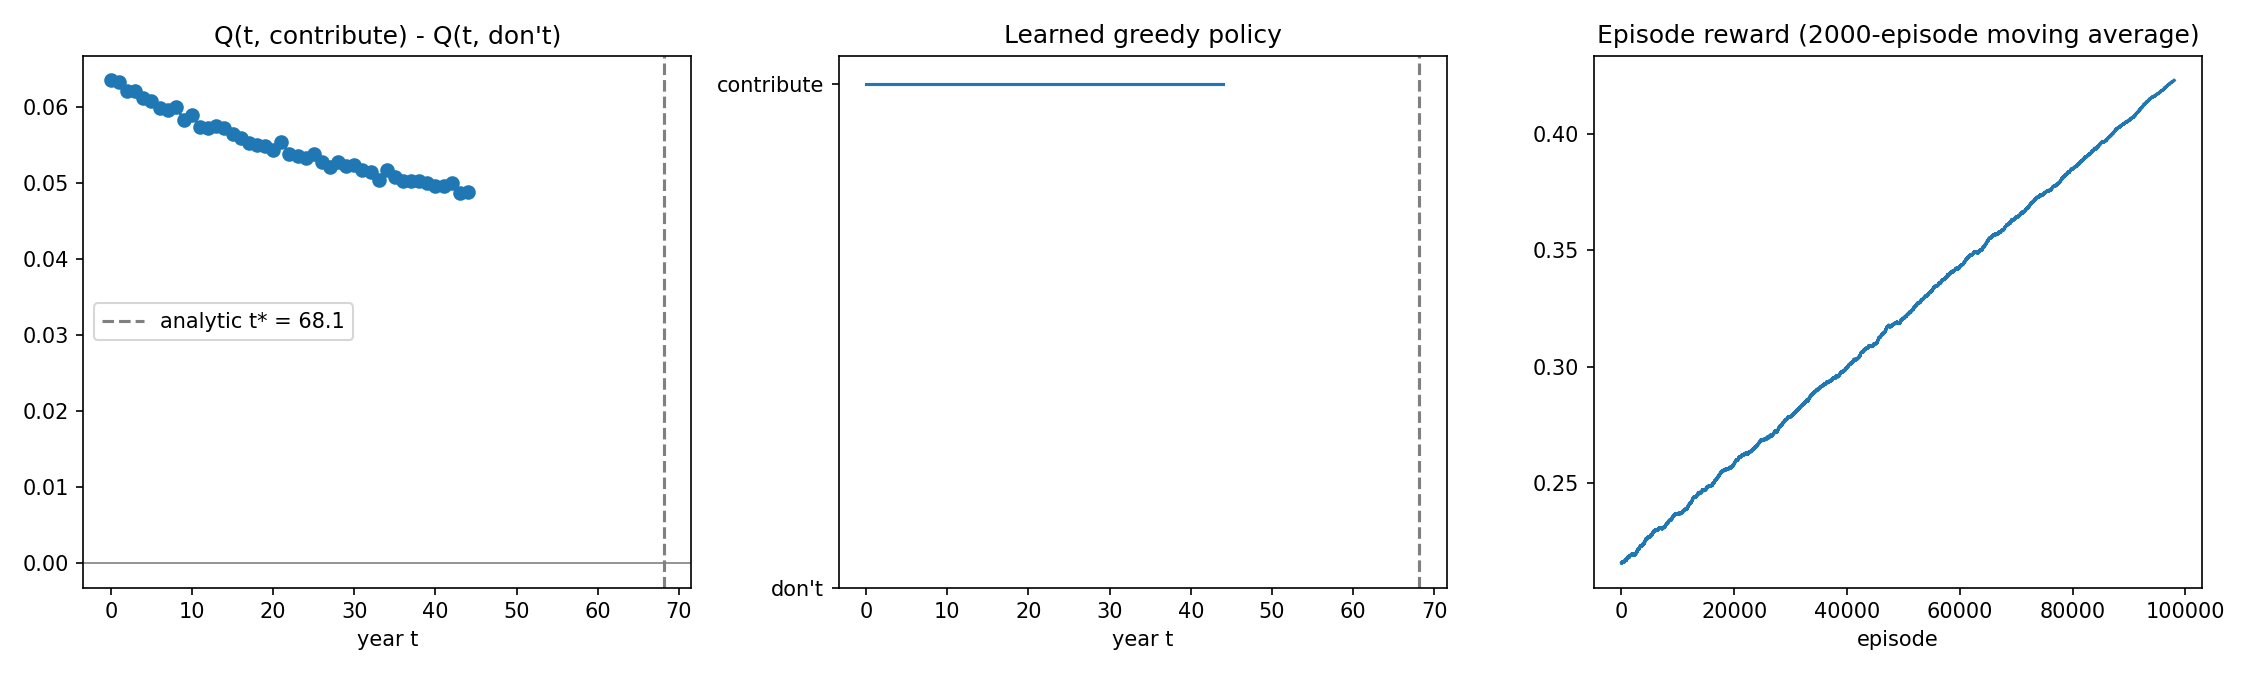
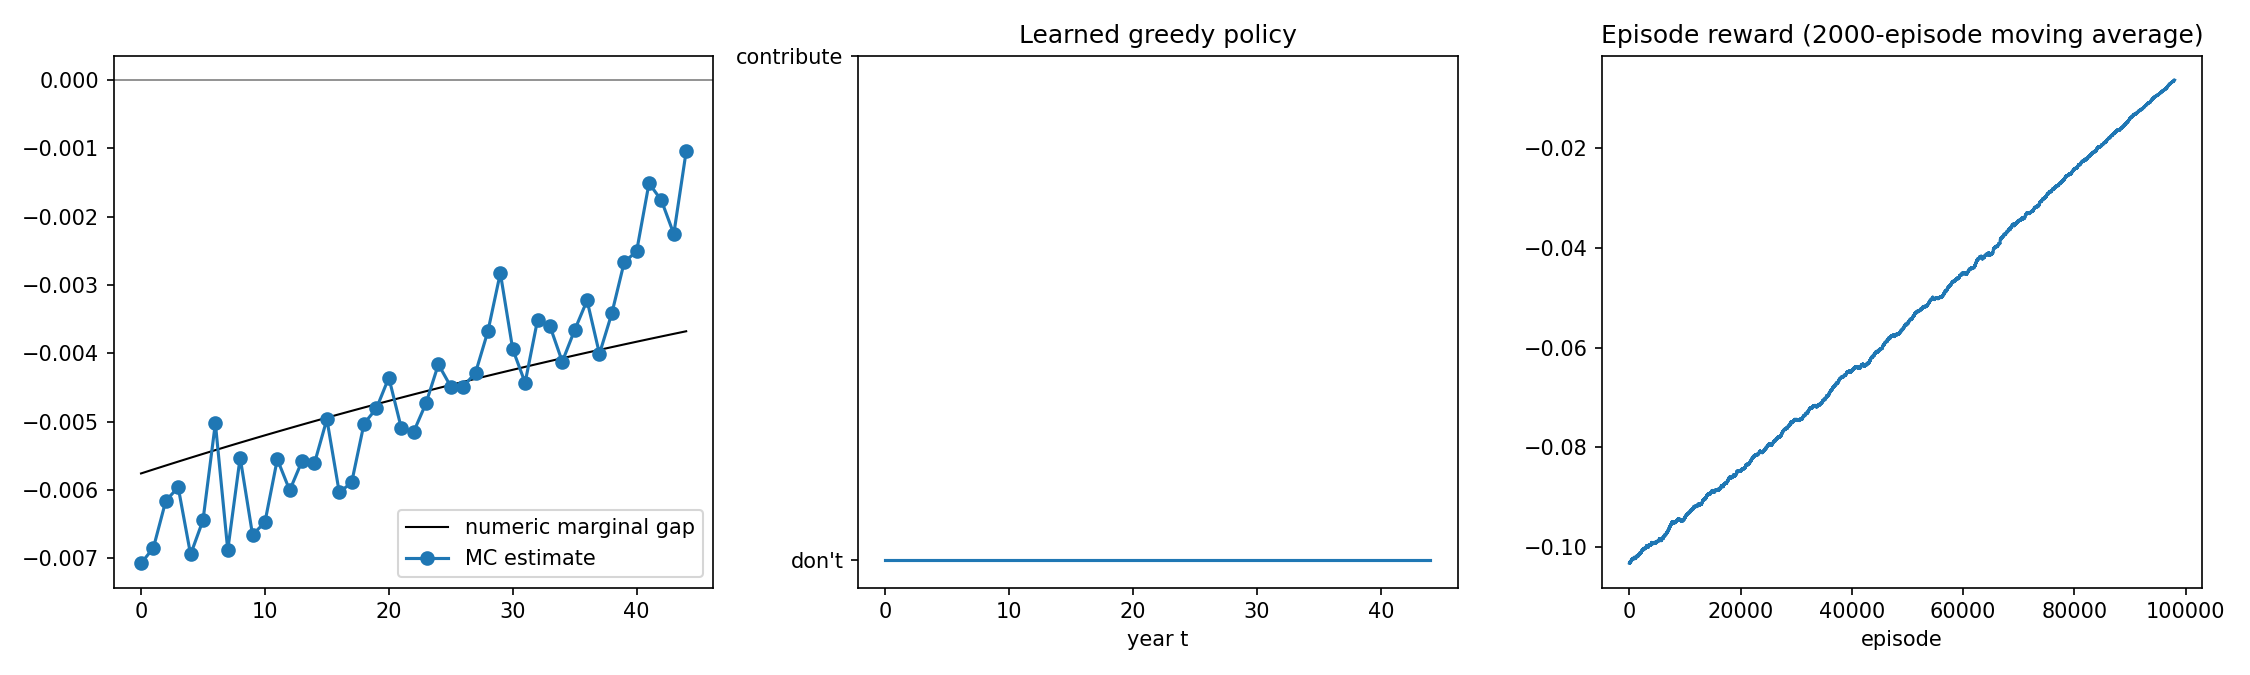
Implement the following:
* weight decay instead of average sample
* salary contribution rate
* generic environment test case numerically solved instead of analytically => as baseline to check Q value
* three test employer importance, balance and employee importance

diff --git a/toyEnv/basic.py b/toyEnv/basic.py
@@ -3,79 +3,97 @@ import os
 import numpy as np
 
 
-"""Tabular Monte Carlo control on the most basic pension contribution toy.
- 
-No neural networks, no Stable Baselines, no Gymnasium. One Q-table, one loop.
- 
-Environment (stripped to the bone)
-----------------------------------
-- T = 20 annual steps, binary action: contribute c_max (a=1) or nothing (a=0).
-- Vintage-exact aggregate recursions under a frozen WAP-style guarantee g:
-      R <- (R + c) * (1 + X_t)     credited reserve leg, X_t lognormal
-      L <- (L + c) * (1 + g)       liability leg at the guarantee rate
-- Reward: zero until the end, then the joint value
-      J = max(R, L) - kappa * [ (1 + tau) * C + max(L - R, 0) ]
- 
+"""Tabular Monte Carlo control on a deterministic pension contribution toy.
+
+No neural networks, no libraries beyond numpy. One Q-table, one loop.
+
+Environment
+-----------
+- T = 45 annual steps, binary action: contribute this year's premium or not.
+- Premium is salary-linked: c_t = C_RATE * S_t, with S_t = S0 * (1+W)^t.
+- Deterministic aggregate recursions (vintage-exact) under a frozen guarantee:
+      R <- (R + c) * exp(MU)       reserve credited at the tariff MU
+      L <- (L + c) * (1 + G)       WAP liability leg at the guarantee rate
+- Rewards are emitted when cash flows occur, already discounted to t=0
+  at rate DISC (one numeraire, owned by the environment):
+      per year:  -KAPPA * c_t * exp(-DISC * t)
+      terminal:  (max(R,L) - KAPPA * max(L-R, 0)) * exp(-DISC * T)
+  KAPPA is the employer-cost weight; KAPPA = 1 makes the shortfall a pure
+  transfer that cancels from the joint objective.
+  Current simplification: DISC = MU (timing-neutral economy).
+
 Agent
 -----
-- State: the year t only (policy class = corner policies, which is where the
-  true optimum lives; honest caveat: this state is non-Markov w.r.t. R and L,
-  which is fine here but will NOT be fine once the WAP rate is stochastic).
-- Q-table of shape (T, 2). Every-visit Monte Carlo: each episode's terminal
-  reward is credited to all (t, a) pairs visited (with gamma = 1 and only a
-  terminal reward, the return at every step IS the terminal reward).
-- Epsilon-greedy exploration with linear decay.
- 
-Ground truth
-------------
-Contribute at year t iff exp(mu * (T - t)) > kappa * (1 + tau)
-  => switch date t* = T - ln(kappa * (1 + tau)) / mu   (~12.5 with defaults;
-     the shortfall put nudges the exact switch slightly earlier).
+- State: the year t only. Sufficient here because salary and rates are
+  deterministic functions of time; must grow once anything stochastic
+  enters (WAP rate, credited return).
+- On-policy every-visit Monte Carlo control, epsilon-greedy with linear
+  decay, gamma = 1 (financial discounting lives in the reward; gamma < 1
+  would double-discount — do not tune).
+- Update target is the return-from-t (reverse cumsum of rewards), so
+  sunk costs never pollute later decisions' estimates.
+
+Validation
+----------
+No closed forms: the benchmark evaluates the environment directly, so it
+cannot go stale when run_episode changes.
+- sweep_benchmark(): best switch policy by direct evaluation.
+- numeric_gap(): per-year marginal value of contributing.
+Pass criteria: learned policy matches the sweep's switch; MC Q-gaps track
+numeric_gap(); reward trace plateaus at the benchmark value.
+Caveats: single-episode evaluation and per-year decomposition are exact
+only while the environment is deterministic and the reward is linear in
+contributions — both need Monte Carlo averaging at the stochastic rung.
 """
  
 # --------------------------------------------------------------------------- 
 # Parameters
 # ---------------------------------------------------------------------------
 T = 45          # career length in years
-C_MAX = 1.0     # contribution when a = 1
 G = 0.0175      # frozen WAP guarantee rate
 MU = 0.03       # tarrif on mathematical reserve 
-KAPPA = 0.5    # employer-cost weight (> 1, else the shortfall cancels) sensitivy 
-SCALE = C_MAX * T * np.exp(MU * T)   # keeps rewards O(1)
- 
-N_EPISODES = 100_000
+KAPPA = 2    # employer-cost weight (> 1, else the shortfall cancels) sensitivy 
+S0 = 1.0        #starting salary
+W = 0.02        # deterministic salary growth 
+C_RATE = 0.05   # contribution as a fraction of the salary 
+SCALE = C_RATE * S0 * T * np.exp(MU * T) # keeps rewards O(1)
+DISC= MU
+
+ALPHA= 0.02 #WEIGHT DECAY
+
 
  
  # ---------------------------------------------------------------------------
 # Environment: one function that plays a full episode given an action rule
 # ---------------------------------------------------------------------------
  
-def run_episode(choose_action, rng):
+def run_episode(choose_action):
     """Play one career. choose_action(t) -> 0 or 1. Returns (actions, reward)."""
-    R = L = C = 0.0
+    R = L = 0.0
     actions = np.empty(T, dtype=np.int64)
+    S = S0
+    rewards = np.zeros(T) 
     for t in range(T):
         a = choose_action(t)
         actions[t] = a
-        c = C_MAX * a
-        x = np.exp(MU)
-        R = (R + c) * x
+        c = C_RATE * S *  a
+        rewards[t] = -KAPPA * c * np.exp(-DISC * t) / SCALE
+        R = (R + c) * np.exp(MU)
         L = (L + c) * (1.0 + G)
-        C += c
+        S *= (1.0+ W)
     payout = max(R, L)
     shortfall = max(L - R, 0.0)
-    reward = (payout - KAPPA * (C + shortfall)) / SCALE
-    return actions, reward
+    rewards[-1] += (payout - KAPPA * shortfall)*np.exp(-DISC*T) / SCALE
+    return actions, rewards
 
 
 # ---------------------------------------------------------------------------
 # Monte Carlo control
 # ---------------------------------------------------------------------------
  
-def mc_control(n_episodes=N_EPISODES, seed=0, epsStart =1.0, epsEnd =0.01 ):
+def mc_control(n_episodes=100000, seed=0, epsStart =1.0, epsEnd =0.05 ):
     rng = np.random.default_rng(seed)
     Q = np.zeros((T, 2))            # value estimates
-    visits = np.zeros((T, 2))       # visit counts for running averages
     reward_trace = np.empty(n_episodes)
  
     for ep in range(n_episodes):
@@ -86,53 +104,78 @@ def mc_control(n_episodes=N_EPISODES, seed=0, epsStart =1.0, epsEnd =0.01 ):
                 return int(rng.integers(2))          # explore
             return int(np.argmax(Q[t]))              # exploit
  
-        actions, reward = run_episode(choose_action, rng)
-        reward_trace[ep] = reward
- 
+        actions, rewards = run_episode(choose_action)
+        reward_trace[ep] = rewards.sum()   # G_0, comparable to before
+        returns = np.cumsum(rewards[::-1])[::-1]  # G_t = Σ_{s≥t} r_s  (γ = 1) as already discounted with NPV 
         # Every-visit MC update: the terminal reward is the return at every t.
         for t in range(T):
             a = actions[t]
-            visits[t, a] += 1
-            Q[t, a] += (reward - Q[t, a]) / visits[t, a]   # incremental mean
- 
+            Q[t, a] += ALPHA * (returns[t] - Q[t, a]) #apply weight decay 
+    
     return {
         "Q": Q,
         "policy": np.argmax(Q, axis=1),
         "reward_trace": reward_trace,
     }
-    
 
-def analytic_switch():
-    return T - np.log(KAPPA) / MU
- 
+# ----------------------------------------------------------------------
+# Environment-based benchmark (no learning) 
+# ----------------------------------------------------------------------
 
+def sweep_benchmark(n_grid=T + 1):
+    """Best switch policy by direct evaluation — no learning, no formulas.
+    Automatically stays correct under any change to run_episode."""
+    best = {"switch": 0, "value": -np.inf}
+    for k in range(n_grid):                    # contribute years 0..k-1
+        actions, rewards = run_episode(lambda t: int(t < k))
+        value = rewards.sum()                  # deterministic env: one episode suffices
+        if value > best["value"]:
+            best = {"switch": k, "value": value}
+    return best
+
+
+def numeric_gap():
+    """Marginal value of contributing in each single year, measured directly
+    from the environment. No formulas: stays correct under env changes.
+    (Exact per-year decomposition only while the env is deterministic and
+    the reward linear in contributions — revisit at the stochastic rung.)"""
+    _, r_none = run_episode(lambda t: 0)
+    base = r_none.sum()
+    gaps = np.empty(T)
+    for k in range(T):
+        _, r = run_episode(lambda t, k=k: int(t == k))
+        gaps[k] = r.sum() - base
+    return gaps
 
 # ---------------------------------------------------------------------------
 # Diagnostics
 # ---------------------------------------------------------------------------
  
-def plot_results(result, path="tests/mc_basic2.png"):
+def plot_results(result, path="tests/mc_basic.png"):
     import matplotlib
     matplotlib.use("Agg")
     import matplotlib.pyplot as plt
  
     os.makedirs(os.path.dirname(path), exist_ok=True)
     Q, policy, trace = result["Q"], result["policy"], result["reward_trace"]
-    t_star = analytic_switch()
     ts = np.arange(T)
  
     fig, axes = plt.subplots(1, 3, figsize=(15, 4.5))
- 
-    axes[0].plot(ts, Q[:, 1] - Q[:, 0], marker="o")
+    bench = sweep_benchmark()
+    # switch line only if the best policy is interior
+    if bench is not None and 0 < bench["switch"] < T:
+        for ax in (axes[0], axes[1]):
+            ax.axvline(bench["switch"], ls="--", color="grey",
+                   label=f"benchmark switch = {bench['switch']}")
+    gap_numeric = numeric_gap()
+
+    axes[0].plot(ts, gap_numeric, color="black", lw=1, label="numeric marginal gap")
+    axes[0].plot(ts, Q[:, 1] - Q[:, 0], marker="o", label="MC estimate")
     axes[0].axhline(0.0, color="grey", lw=0.8)
-    axes[0].axvline(t_star, ls="--", color="grey",
-                    label=f"analytic t* = {t_star:.1f}")
-    axes[0].set_title("Q(t, contribute) - Q(t, don't)")
-    axes[0].set_xlabel("year t")
     axes[0].legend()
- 
+
+    
     axes[1].step(ts, policy, where="mid")
-    axes[1].axvline(t_star, ls="--", color="grey")
     axes[1].set_yticks([0, 1], ["don't", "contribute"])
     axes[1].set_title("Learned greedy policy")
     axes[1].set_xlabel("year t")
@@ -149,7 +192,13 @@ def plot_results(result, path="tests/mc_basic2.png"):
  
  
 if __name__ == "__main__":
-    print(f"analytic switch date (put ignored): t* = {analytic_switch():.2f}")
+    bench = sweep_benchmark()
+    if bench["switch"] == T:
+        print(f"benchmark: always contribute (value {bench['value']:.4f})")
+    elif bench["switch"] == 0:
+        print(f"benchmark: never contribute (value {bench['value']:.4f})")
+    else:
+        print(f"benchmark: contribute until year {bench['switch']} (value {bench['value']:.4f})")
     result = mc_control()
     print("learned policy (year: action):")
     print({t: int(a) for t, a in enumerate(result["policy"])})